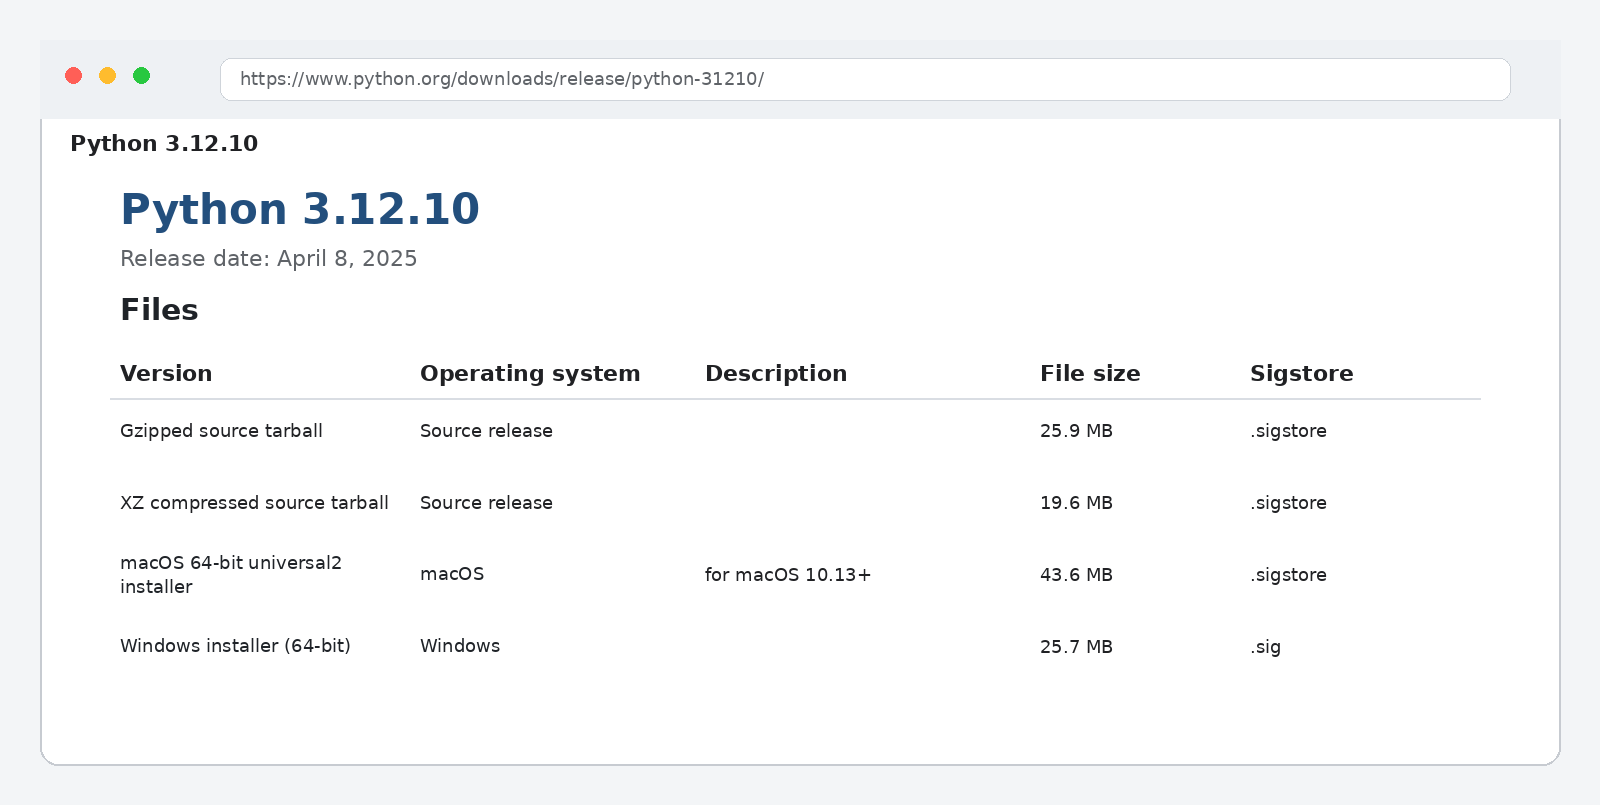
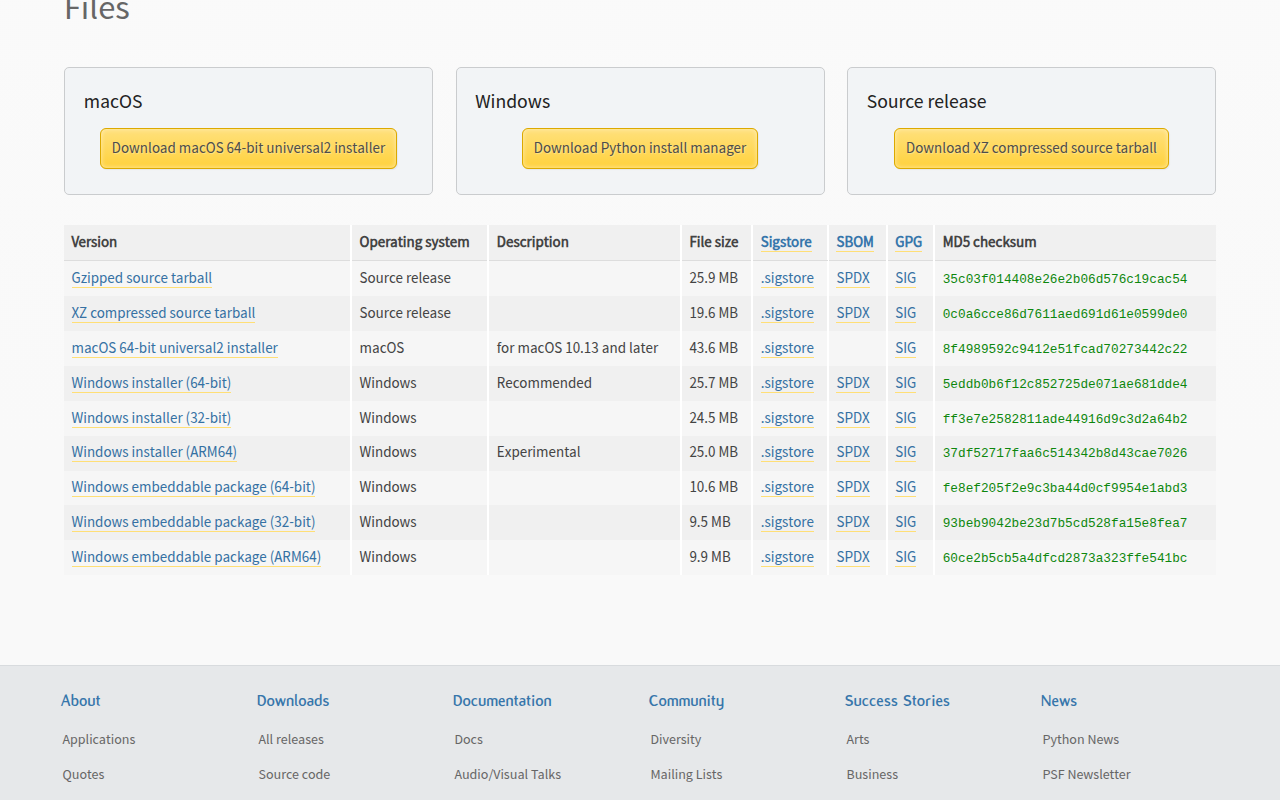
feat(session-0): first real web capture — python.org 3.12.10 files
With the new environment domains, the capture script took a real
screenshot of the python.org 3.12.10 page; it replaces that illustration.
It showed what the page did not warn about: a yellow "Download Python
install manager" button above the table, the other install route. The
Windows step now says to use the "Windows installer (64-bit)" row marked
Recommended and not that button; the macOS step notes its yellow button
is the same file. Alt and caption describe the real page.

git-scm.com (proxy "Host not in allowlist" page in Chromium) and GitHub
sign-up (GitHub's bot block) did not yield real pages; their
illustrations stay. Each capture was looked at before committing.

Claude-Session: https://claude.ai/code/session_01Ht53QRuovREb3bxuf5GRRw

diff --git a/src/lib/setup/content.ts b/src/lib/setup/content.ts
@@ -176,7 +176,8 @@ const python: SetupPart = {
       guide: { label: 'la guía oficial de Python 3.12 para Windows', url: 'https://docs.python.org/es/3.12/using/windows.html' },
       body: [
         `Abre esta página en tu navegador: \`${PYTHON_RELEASE_URL}\`. Baja hasta la tabla **Files**, al final.`,
-        'Haz clic en `Windows installer (64-bit)`. El archivo se guarda en tu carpeta Descargas.',
+        'Haz clic en `Windows installer (64-bit)`, la fila marcada `Recommended`. El archivo se guarda en tu carpeta Descargas.',
+        'Más arriba hay un botón amarillo, `Download Python install manager`. No lo uses: es otra forma de instalar Python que este curso no sigue, y mezclar las dos causa conflictos.',
       ],
       shot: 'py-release-files',
       expect: { text: 'Un archivo llamado `python-3.12.10-amd64.exe` en Descargas.' },
@@ -309,7 +310,7 @@ const python: SetupPart = {
       guide: { label: 'la guía oficial de Python 3.12 para macOS', url: 'https://docs.python.org/es/3.12/using/mac.html' },
       body: [
         `Abre esta página en tu navegador: \`${PYTHON_RELEASE_URL}\`. Baja hasta la tabla **Files**, al final.`,
-        'Haz clic en `macOS 64-bit universal2 installer`. Sirve para todos los Mac, con chip Intel o Apple.',
+        'Haz clic en `macOS 64-bit universal2 installer`. Sirve para todos los Mac, con chip Intel o Apple. El botón amarillo de macOS, más arriba, descarga el mismo archivo.',
       ],
       shot: 'py-release-files',
       expect: { text: 'Un archivo llamado `python-3.12.10-macos11.pkg` en tu carpeta Descargas.' },
@@ -1217,8 +1218,8 @@ export const SETUP_SHOTS: readonly ShotSpec[] = [
     url: PYTHON_RELEASE_URL,
     selector: 'table',
     brief: 'Página de la versión 3.12.10 en python.org, desplazada hasta la tabla Files. Recuadro en la tabla.',
-    alt: 'Tabla Files de la página de Python 3.12.10 en python.org. Sus filas incluyen macOS 64-bit universal2 installer, Windows installer (64-bit) y Windows installer (ARM64).',
-    caption: 'La tabla Files, al final de la página. Elige la fila de tu sistema.',
+    alt: 'Parte final de la página de Python 3.12.10 en python.org. Arriba, tres botones amarillos: Download macOS 64-bit universal2 installer, Download Python install manager y Download XZ compressed source tarball. Debajo, resaltada, la tabla de archivos, con filas como macOS 64-bit universal2 installer, Windows installer (64-bit), marcada Recommended, y Windows installer (ARM64).',
+    caption: 'La tabla de archivos, resaltada. En Windows elige la fila Windows installer (64-bit), no el botón amarillo del install manager.',
   },
   {
     id: 'win-py-installer-path',
